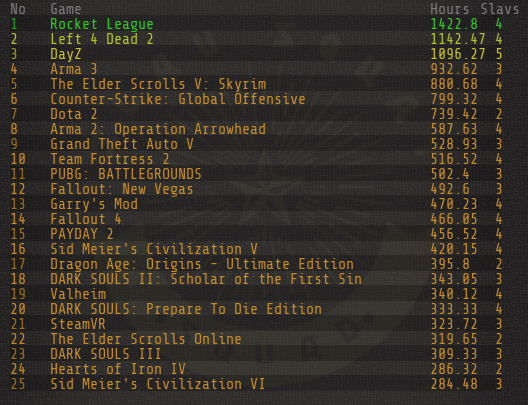
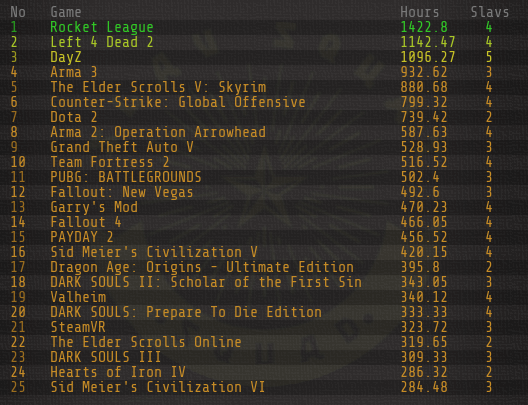
Image generation added

Changed region(s): [[0.0909, 0.0, 0.697, 0.9778], [0.7576, 0.0, 0.9697, 0.9778], [0.0, 0.0, 0.0606, 0.9778]]

diff --git a/generateImageProfiles.py b/generateImageProfiles.py
@@ -1,0 +1,98 @@
+#Count execution time
+from datetime import datetime
+startTime = datetime.now()
+#Imports
+import os
+from PIL import Image, ImageDraw, ImageFont
+import mysql.connector
+import subprocess
+from datetime import datetime
+
+#Connect to DB
+mydb = mysql.connector.connect(
+          host="localhost",
+            user="loser",
+              password="dupa",
+                database="trackedtimes"
+                )
+mycursor = mydb.cursor(buffered=True)
+
+#Settings
+pathToScript='/home/pi/steamsumup/'
+
+#Choose size and color
+#img = Image.new('RGB', (550, 400), color = (73, 109, 137))
+img = Image.open(pathToScript+'background.png')
+img = img.convert("RGB")
+#Choose fonts
+fnt = ImageFont.truetype(pathToScript+'ShareTechMono-Regular.ttf', 17)
+smallfnt = ImageFont.truetype(pathToScript+'ShareTechMono-Regular.ttf',11)
+#Settings
+rowHeight=17
+firstRowStart=3
+
+#Draw background
+d = ImageDraw.Draw(img,'RGBA')
+
+#Get text from file
+f = open(pathToScript+'profileList','r')
+
+#Analyze each line from the file
+rowNumber = 0
+for steamId in f:
+    #remove \n from steamId
+    steamId=steamId[0:-1]
+    #load user info file
+    p = open('/home/pi/steamtracker/users/'+steamId+'/userinfo.txt')
+    lines = p.read().splitlines()
+    last_line = lines[-1].split(";")[1]
+    if last_line == "\n" or last_line == "":
+        last_line = lines[-2].split(";")[1]
+    currentColor = (49, 199, 38) #green
+    #Add extra row for titles
+    if rowNumber == 0:
+#        d.text((10,firstRowStart+rowHeight*rowNumber), "No", font=fnt, fill=(100,100,100))
+#        d.text((70,firstRowStart+rowHeight*rowNumber), "Nickname", font=fnt, fill=(100,100,100))
+#        d.text((250,firstRowStart+rowHeight*rowNumber), "Hours", font=fnt, fill=(100,100,100))
+        d.text((300,firstRowStart+rowHeight*rowNumber), "Games", font=fnt, fill=(100,100,100))
+        d.text((380,firstRowStart+rowHeight*rowNumber), "Games", font=fnt, fill=(100,100,100))
+        rowNumber += 1
+        d.text((10,firstRowStart+rowHeight*rowNumber), "No", font=fnt, fill=(100,100,100))
+        d.text((40,firstRowStart+rowHeight*rowNumber), "Nickname", font=fnt, fill=(100,100,100))
+        d.text((200,firstRowStart+rowHeight*rowNumber), "Hours", font=fnt, fill=(100,100,100))
+        d.text((300,firstRowStart+rowHeight*rowNumber), "owned", font=fnt, fill=(100,100,100))
+        d.text((380,firstRowStart+rowHeight*rowNumber), "played", font=fnt, fill=(100,100,100))
+        rowNumber += 1
+    #Print No to image
+    d.text((10,firstRowStart+rowHeight*rowNumber), str(rowNumber-1), font=fnt, fill=currentColor)
+    #Add tint to every second row
+    if (rowNumber+1) % 2:
+        d.rectangle([(0,(firstRowStart+rowHeight*rowNumber)+2),(530,firstRowStart+rowHeight*(rowNumber+1)+1)], fill=(0,0,0,57))
+    #Print nickname to image
+    d.text((40,firstRowStart+rowHeight*rowNumber), last_line, font=fnt, fill=currentColor)
+    #Get total hours
+    mycursor.execute("SELECT SUM(`playedTotal`) FROM (SELECT  * FROM (SELECT `appId`, `playedTotal`,`date` FROM `"+steamId+"` ORDER BY `date` DESC LIMIT 5000) AS t GROUP BY `appId`) AS t2 ORDER BY `playedTotal` DESC")
+    personalTotalTime = mycursor.fetchall()[0][0]
+    personalTotalTime = str(round(personalTotalTime/60,2))
+    #Get number of games played
+    mycursor.execute("SELECT COUNT(*) FROM (SELECT  * FROM (SELECT `appId`, `playedTotal`,`date` FROM `"+steamId+"` ORDER BY `date` DESC LIMIT 5000) AS t GROUP BY `appId`) AS t2 ORDER BY `playedTotal` DESC")
+    gamesPlayed = mycursor.fetchall()[0][0]
+    #Print total hours
+    d.text((200,firstRowStart+rowHeight*rowNumber), personalTotalTime, font=fnt, fill=currentColor)
+    #Get games owned
+    gamesOwned=subprocess.check_output('curl -s "http://api.steampowered.com/IPlayerService/GetOwnedGames/v0001/?key=EB73438BE5A148D08473BFDFC8D6EEBC&steamid='+str(steamId)+'&format=json" | jq \'.[] | .game_count\'', shell=True)
+    gamesOwned=str(gamesOwned)[2:-3]
+    #Print games owned
+    d.text((300,firstRowStart+rowHeight*rowNumber), str(gamesOwned), font=fnt,fill=currentColor)
+    #Get percent of games played
+    playedPercent = str(round(int(gamesPlayed)/int(gamesOwned)*100,1))
+    #Print games played
+    d.text((380,firstRowStart+rowHeight*rowNumber), str(gamesPlayed)+" ("+playedPercent+"%)", font=fnt,fill=currentColor)
+    #Iterate rowNumber
+    rowNumber += 1
+
+executionTime=str(round(datetime.now().timestamp() - startTime.timestamp(),2))
+print("EX:"+executionTime+" NOW:"+str(datetime.now()))
+d.text((0,390), "Generated in ~"+str(executionTime)+" seconds by qBot on "+str(datetime.now())[0:-7]+". Long live Slav Squat Squad!", font=smallfnt, fill=(20,20,20))
+#Save for the glory of Slav Squat Squad
+img.save(pathToScript+'current-slavs.png')

diff --git a/generateImage.py b/generateImage.py
@@ -10,7 +10,7 @@ img = img.convert("RGB")
 fnt = ImageFont.truetype('/home/pi/steamsumup/ShareTechMono-Regular.ttf', 15)
 #Settings
 rowHeight=15
-
+firstRowStart=3
 
 #Draw background
 d = ImageDraw.Draw(img,'RGBA')
@@ -32,12 +32,12 @@ for row in f:
         currentColor = (199, 194, 38) # yellowish
     else:
         currentColor = (199, 140, 38) #orange
-    d.text((10,rowHeight*rowNumber), rowSplit[0], font=fnt, fill=currentColor)
+    d.text((10,firstRowStart+rowHeight*rowNumber), rowSplit[0], font=fnt, fill=currentColor)
     if rowNumber % 2:
-        d.rectangle([(10,rowHeight*rowNumber),(500,rowHeight*(rowNumber+1))], fill=(0,0,0,57))
-    d.text((50,rowHeight*rowNumber), rowSplit[1][0:45], font=fnt, fill=currentColor)
-    d.text((430,rowHeight*rowNumber), rowSplit[2], font=fnt, fill=currentColor)
-    d.text((480+min(1,rowNumber)*15,rowHeight*rowNumber), rowSplit[3], font=fnt, fill=currentColor)
+        d.rectangle([(0,(firstRowStart+rowHeight*rowNumber)+2),(530,firstRowStart+rowHeight*(rowNumber+1)+1)], fill=(0,0,0,57))
+    d.text((50,firstRowStart+rowHeight*rowNumber), rowSplit[1][0:45], font=fnt, fill=currentColor)
+    d.text((400,firstRowStart+rowHeight*rowNumber), rowSplit[2], font=fnt, fill=currentColor)
+    d.text((470+min(1,rowNumber)*15,firstRowStart+rowHeight*rowNumber), rowSplit[3], font=fnt, fill=currentColor)
     rowNumber += 1
 #Save for the glory of Slav Squat Squad
 img.save('latest-slav-top.png')
